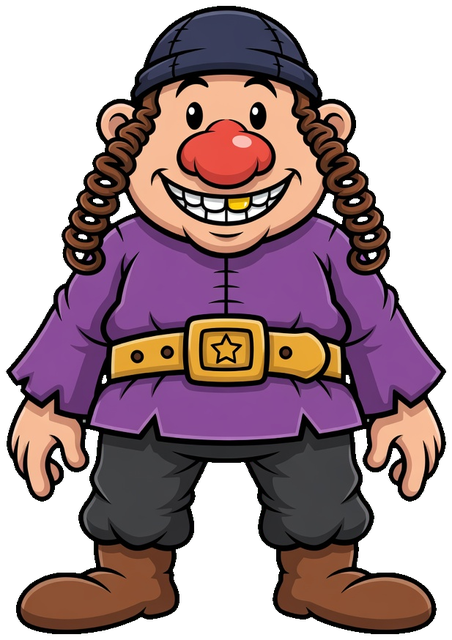
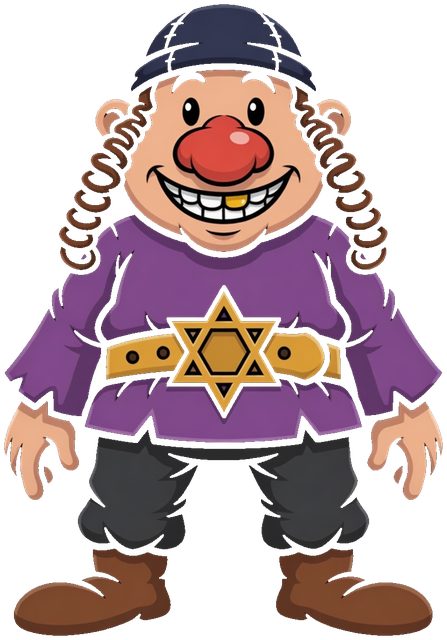
Replace EI belt buckles with the gold hexagram from the reference.
Regular, sprinty, tanky, and boss now use a six-pointed buckle sitting on the belt instead of a five-point star in a square plate. Cache-bust those sprites to v=4.

Changed region(s): [[0.0, 0.0, 0.9888, 1.0]]

diff --git a/game.js b/game.js
@@ -81,10 +81,10 @@
     sky: 'assets/tex_sky.png',
     house: 'assets/tex_house.png',
     houseGold: 'assets/tex_house_gold.png',
-    ei: 'assets/spr_ei.png',
-    eiSprinty: 'assets/spr_ei_sprinty.png',
-    eiTanky: 'assets/spr_ei_tanky.png',
-    eiBoss: 'assets/spr_ei_boss.png?v=3',
+    ei: 'assets/spr_ei.png?v=4',
+    eiSprinty: 'assets/spr_ei_sprinty.png?v=4',
+    eiTanky: 'assets/spr_ei_tanky.png?v=4',
+    eiBoss: 'assets/spr_ei_boss.png?v=4',
     eiBean: 'assets/spr_ei_bean.png',
     soldier: 'assets/spr_soldier.png',
     tree: 'assets/spr_tree.png',
